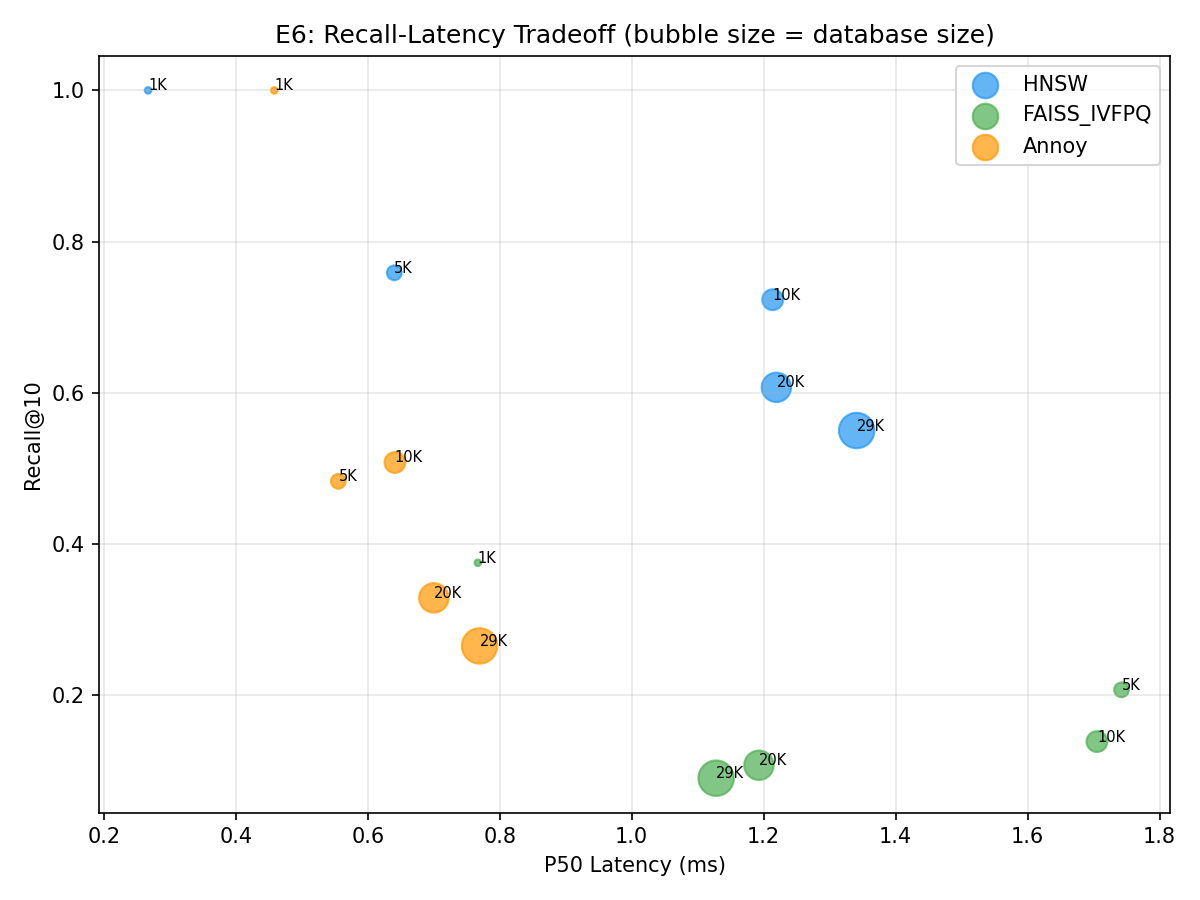
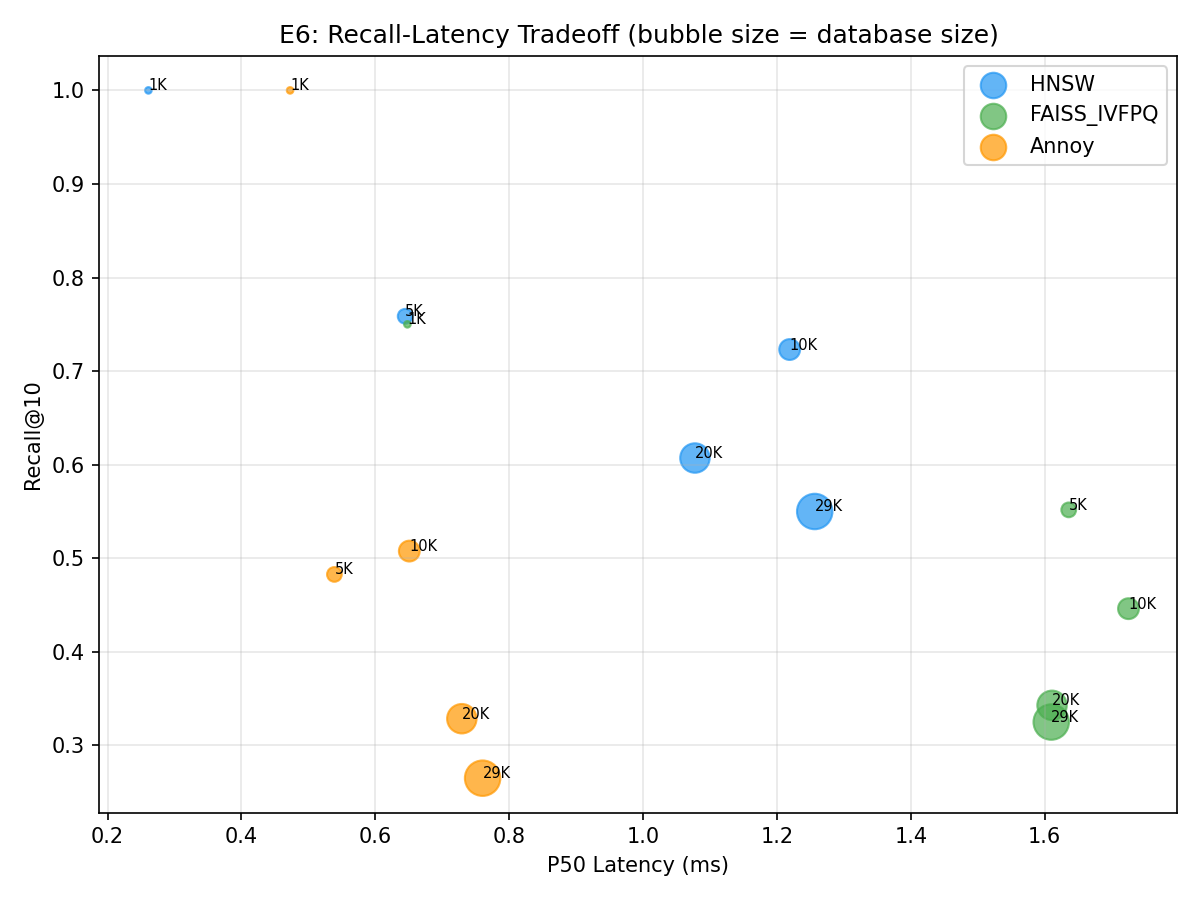
[fix] E6 FAISS: use m=64 (not m=8) for fair PQ comparison
Root cause: FAISSIndex default m=8 means 512/8=64 dims per sub-vector
compressed to 1 byte (64x compression). This destroys cross-modal semantics.
Fixed to m=64 (8 dims/sub-vector, 8x compression) matching E1 parameters.

Before fix: FAISS R@10 0.090 at 29K (unrealistically bad)
After fix:  FAISS R@10 0.325 at 29K (realistic PQ degradation vs HNSW 0.550)

diff --git a/scripts/run_e4_e6.py b/scripts/run_e4_e6.py
@@ -247,7 +247,8 @@ def run_e6_scale_analysis():
                 index = HNSWLib(dim=img_emb.shape[1], M=32, ef_construction=300, ef_search=200, metric="cosine")
             elif algo_name == "FAISS_IVFPQ":
                 nlist = max(10, min(scale // 40, 400))  # at least 40 samples per cluster
-                index = FAISSIndex(dim=img_emb.shape[1], index_type="ivfpq", nlist=nlist, nprobe=64)
+                # m=64 matches E1: 512/64=8 dims per sub-vector with 8-bit codes (moderate compression)
+                index = FAISSIndex(dim=img_emb.shape[1], index_type="ivfpq", nlist=nlist, m=64, nprobe=64)
             elif algo_name == "Annoy":
                 index = AnnoyIndexWrapper(dim=img_emb.shape[1], n_trees=min(50, scale // 20 + 10), metric="cosine")
             t0 = time.perf_counter()

diff --git a/report/figures/e6_scale_table.md b/report/figures/e6_scale_table.md
@@ -1,22 +1,22 @@
 | Scale | Algorithm | R@10 | Build(s) | P50(ms) | P95(ms) |
 |-------|-----------|------|----------|----------|----------|
-| 1K | HNSW | 1.000 | 0.0 | 0.3 | 0.4 |
-| 1K | FAISS_IVFPQ | 0.375 | 0.2 | 0.8 | 2.4 |
+| 1K | HNSW | 1.000 | 0.0 | 0.3 | 0.8 |
+| 1K | FAISS_IVFPQ | 0.750 | 0.3 | 0.6 | 0.8 |
 | 1K | Annoy | 1.000 | 0.1 | 0.5 | 0.5 |
 |-------|-----------|------|----------|----------|----------|
 | 5K | HNSW | 0.759 | 0.3 | 0.6 | 0.9 |
-| 5K | FAISS_IVFPQ | 0.207 | 0.8 | 1.7 | 2.2 |
-| 5K | Annoy | 0.483 | 0.4 | 0.6 | 0.7 |
+| 5K | FAISS_IVFPQ | 0.552 | 0.5 | 1.6 | 1.7 |
+| 5K | Annoy | 0.483 | 0.4 | 0.5 | 0.7 |
 |-------|-----------|------|----------|----------|----------|
-| 10K | HNSW | 0.723 | 0.7 | 1.2 | 1.6 |
-| 10K | FAISS_IVFPQ | 0.138 | 1.3 | 1.7 | 1.9 |
-| 10K | Annoy | 0.508 | 0.9 | 0.6 | 0.8 |
+| 10K | HNSW | 0.723 | 0.7 | 1.2 | 2.7 |
+| 10K | FAISS_IVFPQ | 0.446 | 0.9 | 1.7 | 2.2 |
+| 10K | Annoy | 0.508 | 0.8 | 0.7 | 0.9 |
 |-------|-----------|------|----------|----------|----------|
-| 20K | HNSW | 0.607 | 2.1 | 1.2 | 1.8 |
-| 20K | FAISS_IVFPQ | 0.107 | 2.6 | 1.2 | 1.9 |
-| 20K | Annoy | 0.329 | 1.8 | 0.7 | 0.9 |
+| 20K | HNSW | 0.607 | 2.1 | 1.1 | 1.4 |
+| 20K | FAISS_IVFPQ | 0.343 | 1.9 | 1.6 | 2.2 |
+| 20K | Annoy | 0.329 | 1.9 | 0.7 | 1.0 |
 |-------|-----------|------|----------|----------|----------|
-| 29K | HNSW | 0.550 | 3.9 | 1.3 | 2.0 |
-| 29K | FAISS_IVFPQ | 0.090 | 3.1 | 1.1 | 1.9 |
-| 29K | Annoy | 0.265 | 2.6 | 0.8 | 1.0 |
+| 29K | HNSW | 0.550 | 4.1 | 1.3 | 1.7 |
+| 29K | FAISS_IVFPQ | 0.325 | 2.8 | 1.6 | 2.3 |
+| 29K | Annoy | 0.265 | 2.7 | 0.8 | 1.0 |
 |-------|-----------|------|----------|----------|----------|